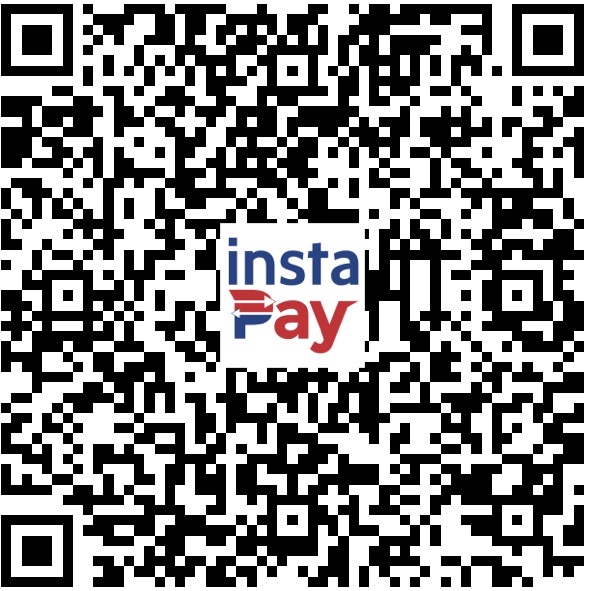
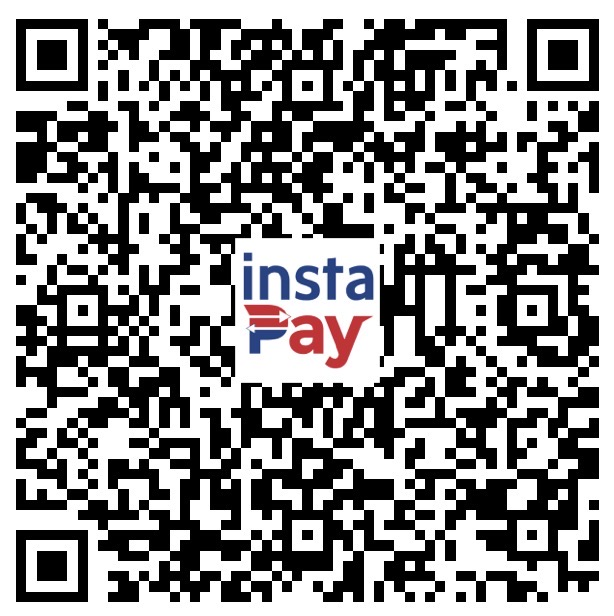
Update QR to InstaPay image and fix IG handle to nayanamimatcha

diff --git a/app/success/page.tsx b/app/success/page.tsx
@@ -1,7 +1,7 @@
 import Link from "next/link";
 import { getSupabaseAdmin, type Order } from "@/lib/supabase";
 
-const IG_HANDLE = "nayanami.ph";
+const IG_HANDLE = "nayanamimatcha";
 
 export default async function SuccessPage({
   searchParams,
@@ -148,7 +148,7 @@ export default async function SuccessPage({
             ₱{order.total.toLocaleString()}
           </div>
           <div style={{ fontSize: "0.75rem", color: muted }}>
-            GCash · Maya · InstaPay
+            via InstaPay
           </div>
         </div>
 
